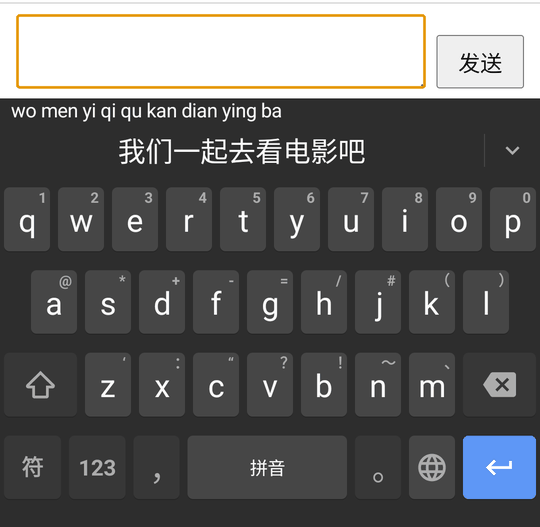
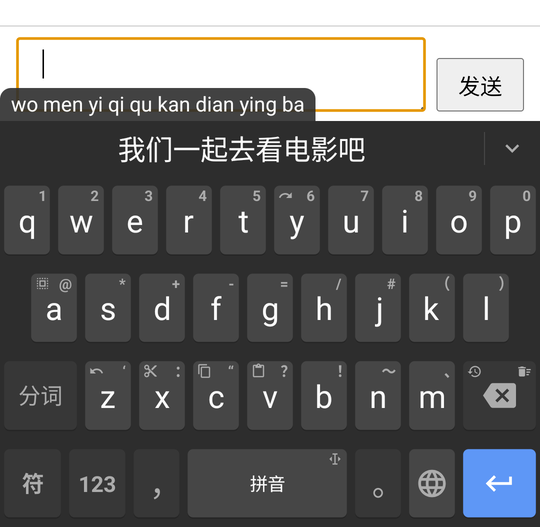
Docs: README screenshots of 0.6.2
The five were of 0.3: retaken on the 0.6.2 release build, the same
subjects and size, handwriting now written on the pinyin keyboard
from the toolbar's button.

Claude-Session: https://claude.ai/code/session_011hhAZeeXBB4XNUR3txTR1t

diff --git a/README.md b/README.md
@@ -16,7 +16,7 @@
 <p align="center">
 <img src="docs/images/screenshot-pinyin.png" width="19%" alt="整句拼音 / pinyin sentences">
 <img src="docs/images/screenshot-t9.png" width="19%" alt="九键 / nine keys">
-<img src="docs/images/screenshot-hw.png" width="19%" alt="手写 / handwriting">
+<img src="docs/images/screenshot-hw.png" width="19%" alt="在键盘上手写 / handwriting on the keyboard">
 <img src="docs/images/screenshot-floating.png" width="19%" alt="悬浮键盘 / floating keyboard">
 <img src="docs/images/screenshot-dark.png" width="19%" alt="深色主题 / dark theme">
 </p>
